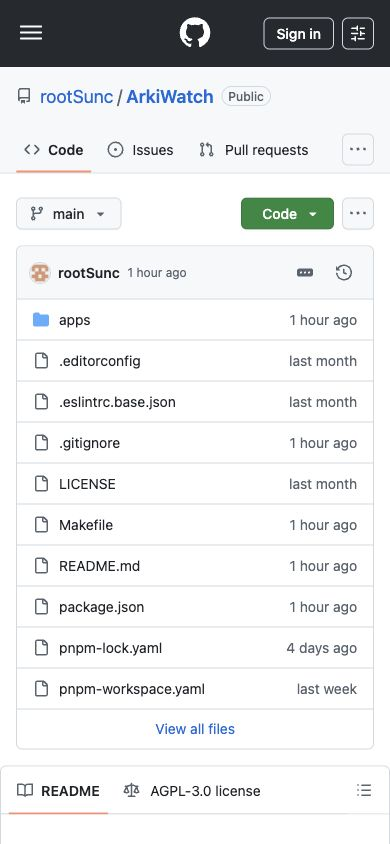
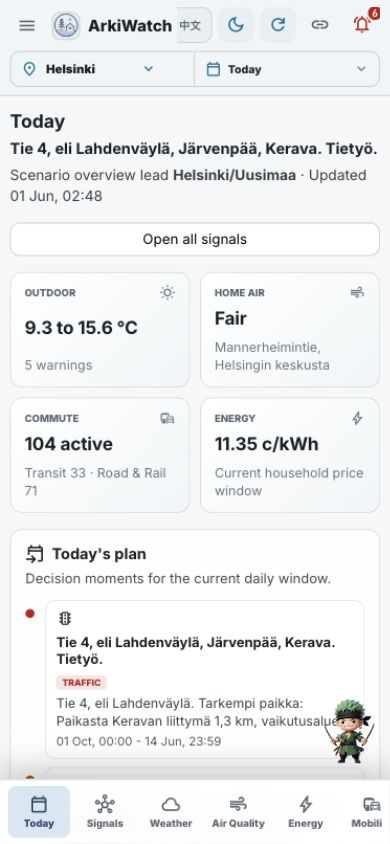
feat(projects): add real ArkiWatch screenshots

diff --git a/src/data/siteContent.ts b/src/data/siteContent.ts
@@ -322,23 +322,23 @@ export const siteContent = {
         id: 'arkiwatch',
         name: 'ArkiWatch',
         category: 'Local intelligence',
-        headline: 'Finland public-data platform for daily life signals.',
+        headline: 'Live Finland public-data dashboard for daily life signals.',
         summary:
-          'A monorepo concept that normalizes weather, air quality, transit, energy, city events, and other public data into useful daily context.',
+          'A running dashboard that turns weather, air quality, commute, energy, and city signals into one daily operating view for Finland.',
         href: 'https://arkiwatch.chaosun.xyz/',
         ctaLabel: 'Open ArkiWatch',
         external: true,
         screenshots: {
           web: {
             src: '/images/projects/arkiwatch-web.jpg',
-            alt: 'ArkiWatch web screenshot',
+            alt: 'ArkiWatch live dashboard web screenshot',
           },
           mobile: {
             src: '/images/projects/arkiwatch-mobile.jpg',
-            alt: 'ArkiWatch mobile screenshot',
+            alt: 'ArkiWatch live dashboard mobile screenshot',
           },
         },
-        highlights: ['FastAPI + Next.js architecture', 'Public-data normalization'],
+        highlights: ['Weather, transit, air, and energy signals', 'FastAPI + Next.js public-data pipeline'],
       },
       {
         id: 'qparking',
